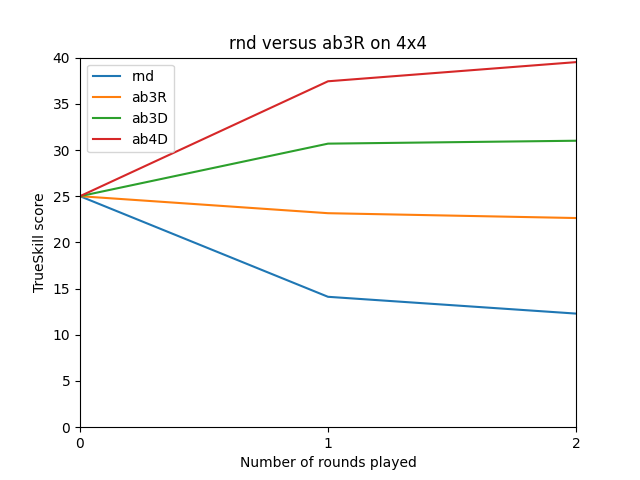
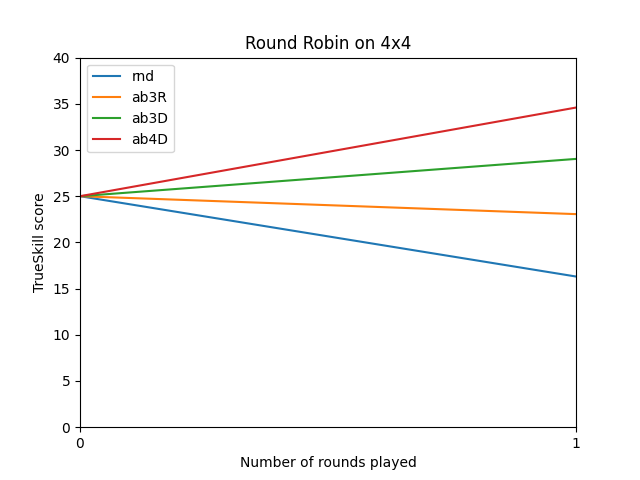
More comments

diff --git a/game.py b/game.py
@@ -19,7 +19,7 @@ class Game(QGameboard):
         self.bot = Bot()
 
         # Game Parameters
-        self.board_dimension = 4
+        self.board_dimension = 6
         # Algorithms for the bots
         self.bot1 = MyBot('ab3D', 'alphabeta', search_depth=3, use_Dijkstra=True)
         self.bot2 = MyBot('rnd', 'random')
@@ -33,8 +33,6 @@ class Game(QGameboard):
 
         self.Play_single_bot_match(self.bot1, self.bot2, self.board)
 
-
-       
     def Play_TrueSkill_match(self, rounds, bot1, bot2):
         """Plays a tourney with the given bots for the given round. Prints results to screen.
 
@@ -149,18 +147,23 @@ class Game(QGameboard):
         return board
 
     def Create_plot(self, df, filename):
+        """Simple function that creates a line plot of the given dataframe.
 
+        Args:
+            df (pd df): dataframe with TrueSkill scores of the bots
+            filename (string): filename to be given
+        """
         from matplotlib.ticker import MaxNLocator
-
+        # Y Cap.
         trueskill_max = 40
 
         # Take the names of the columns and plot these
-        ax = df.plot.line(title='{0} versus {1} on {2}x{2}'.format(df.columns[0], df.columns[1], self.board_dimension))
+        ax = df.plot.line(title='Round Robin on {0}x{0}'.format(self.board_dimension+1))
         
         ax.set_xlabel("Number of rounds played")
         ax.set_ylabel("TrueSkill score")
 
-        ax.set_ylim(ymin=0)
+        # ax.set_ylim(ymin=0) # TODO: deprecated?
         
         plt.xlim([0, self.tourney_rounds])
         plt.ylim([0, trueskill_max])
@@ -172,8 +175,9 @@ class Game(QGameboard):
         plt.show()
 
     def Perform_experiments(self):
-        
-        self.tourney_rounds = 2
+        """This class performs the experiments as required in the Assignment
+        """        
+        self.tourney_rounds = 1
 
         # Create the players        
         b1 = MyBot('rnd', 'random')
@@ -203,7 +207,17 @@ class Game(QGameboard):
         self.Create_plot(df, 'round_robin')
 
     def Play_round_robin(self, b1, b2, b3, b4):
-        
+        """Creates and plays a round robin tournament with the bots given
+
+        Args:
+            b1 ([type]): [description]
+            b2 ([type]): [description]
+            b3 ([type]): [description]
+            b4 ([type]): [description]
+
+        Returns:
+            bots: classes and their updated ELO scores
+        """        
         from round_robin_tournament import Tournament
   
         players = [b1, b2, b3, b4]
@@ -233,14 +247,16 @@ class Game(QGameboard):
         return b1, b2, b3, b4
 
 class MyBot():
-  def __init__(self, name, algorithm, search_depth=-1, use_Dijkstra=False,
-        ID=False, TT=False):
-    self.name = name
-    self.rating = 25
-    self.search_depth = search_depth
-    self.use_Dijkstra = use_Dijkstra
-    self.algorithm = algorithm
+    """Bot Class. Has all info a bot needs. Can be given to the Bot class in bot.py
+    """    
+    def __init__(self, name, algorithm, search_depth=-1, use_Dijkstra=False,
+            ID=False, TT=False):
+        self.name = name
+        self.rating = 25
+        self.search_depth = search_depth
+        self.use_Dijkstra = use_Dijkstra
+        self.algorithm = algorithm
 
-    self.ID = ID
-    self.TT = TT
+        self.ID = ID
+        self.TT = TT
 

diff --git a/gameboard.py b/gameboard.py
@@ -22,7 +22,7 @@ class QGameboard(QtWidgets.QGraphicsView):
     def __init__(self):
         QtWidgets.QGraphicsView.__init__(self)
 
-        self.board_dimension = 4
+        self.board_dimension = 6
 
         # Board parameters. Provided by the class caller (main.py).
         self.rows = self.board_dimension
